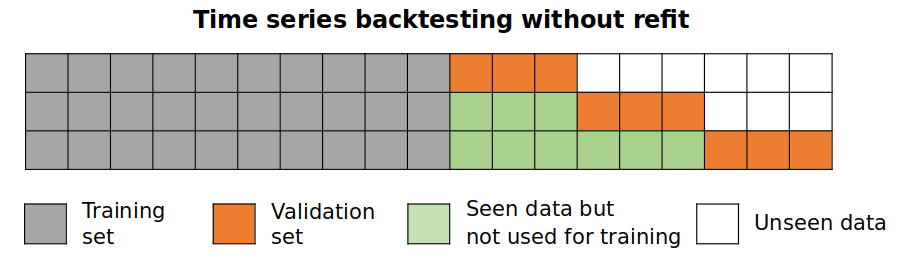
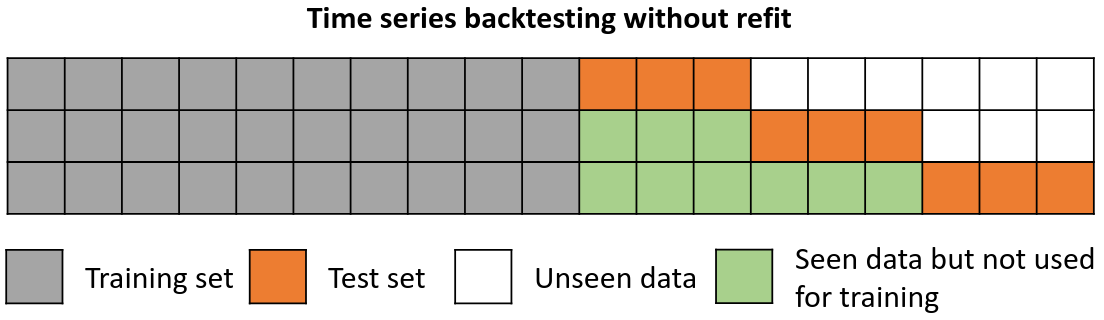
update_backtesting_user_guide

diff --git a/docs/guides/backtesting.md b/docs/guides/backtesting.md
@@ -12,7 +12,7 @@ The model is trained each time before making the predictions, in this way, the m
 
 A technique similar to Backtesting with refit but, in this case, the training set doesn't increase sequentially.
 
-<p align="center"><img src="../img/diagram-backtesting-refit.png" style="width: 500px;"></p>
+<p align="center"><img src="../img/diagram-backtesting-refit-fixed-train-size.png" style="width: 500px;"></p>
 
 <p align="center"><img src="../img/backtesting_refit_fixed_train_size.gif" style="width: 600px;"></p>
 
@@ -147,7 +147,7 @@ print(f"Backtest error: {metric}")
 ```
 
 <pre>
-Backtest error: [0.00726621]
+Backtest error: 0.007266210302212634
 </pre>
 
 ``` python
@@ -299,7 +299,7 @@ metric, predictions_train = backtesting_forecaster(
 print(f"Backtest training error: {metric}")
 ```
 
-Backtest training error: [0.00053925]
+Backtest training error: 0.0005392479040738611
 
 ``` python
 predictions_train.head(4)
@@ -354,7 +354,10 @@ Using the internal regressor only allows predicting one step.
 # ==============================================================================
 forecaster.regressor.predict(X)[:4]
 ```
+
+<pre>
 array([0.55361079, 0.56832448, 0.73516725, 0.72321715])
+</pre>
 
 
 
@@ -386,8 +389,9 @@ print(f"Backtest error custom metric: {metric}")
 ```
 
 <pre>
-Backtest error: 0.00053925
+Backtest error custom metric: 3.136057139917678e-05
 </pre>
+
 
 
 ## Backtest with exogenous variables
@@ -489,7 +493,7 @@ print(f"Backtest error with exogenous variables: {metric}")
 ```
 
 <pre>
-Backtest error with exogenous variables: [0.00683408]
+Backtest error with exogenous variables: 0.0068340846122841425
 </pre>
 
 ``` python
